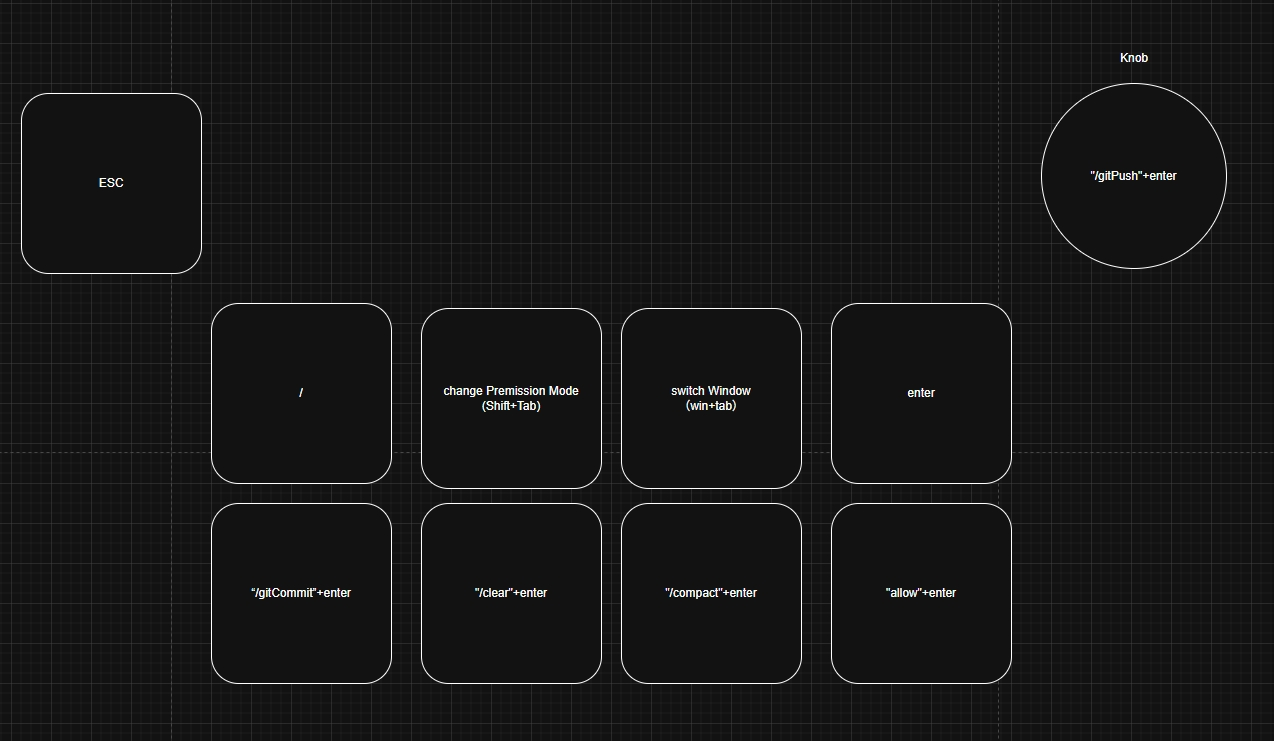
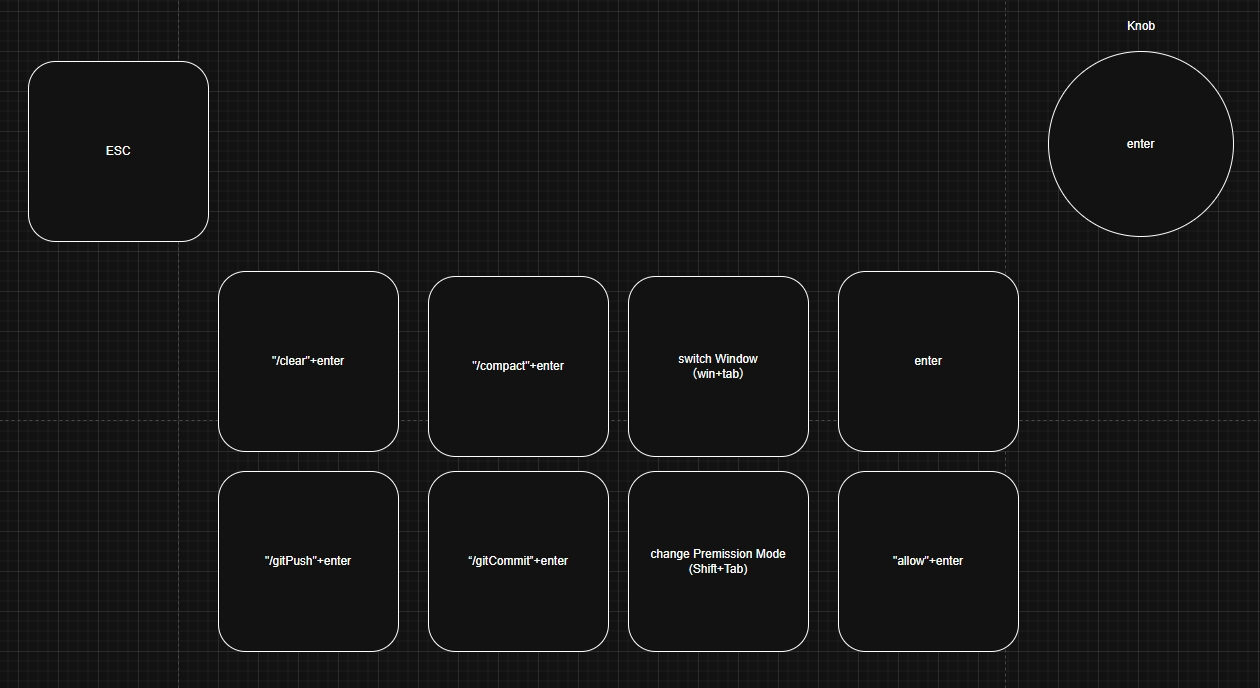
feat: update keymap layout — swap gitPush/gitCommit, remap knob to Enter

diff --git a/firmware/claude_macropad/keymap.h b/firmware/claude_macropad/keymap.h
@@ -78,27 +78,27 @@
 //     中文輸入法使用者建議用 "\n\n"，因為輸入法會吃掉一個 \n
 
 const char* BTN_MACROS[10] = {
-  "",               // [0] ↓ 使用 BTN_KEYS
-  "",               // [1] ↓ 使用 BTN_KEYS
+  "/clear\n\n",     // [0] /clear（清除對話）
+  "/compact\n\n",   // [1] /compact（整理對話）
   "",               // [2] ↓ 使用 BTN_KEYS
   "",               // [3] ↓ 使用 BTN_KEYS
-  "/gitCommit\n\n", // [4] /gitCommit（提交 Git）
-  "/clear\n\n",     // [5] /clear（清除對話）
-  "/compact\n\n",   // [6] /compact（整理對話）
+  "/gitPush\n\n",   // [4] /gitPush（推送 Git）
+  "/gitCommit\n\n", // [5] /gitCommit（提交 Git）
+  "",               // [6] ↓ 使用 BTN_KEYS
   "allow\n\n",      // [7] allow（允許操作）
   "",               // [8] ↓ 使用 BTN_KEYS
-  "/gitPush\n\n",   // [9] /gitPush（推送 Git）
+  "",               // [9] ↓ 使用 BTN_KEYS
 };
 
 const uint8_t BTN_KEYS[10][3] = {
-  {SLASH, 0,       0},  // [0] /
-  {SHIFT, TAB,     0},  // [1] Shift+Tab
+  {0,     0,       0},  // [0] （巨集優先，此鍵不作用）
+  {0,     0,       0},  // [1] （巨集優先，此鍵不作用）
   {WIN,   TAB,     0},  // [2] WIN+Tab
   {ENTER, 0,       0},  // [3] Enter（送出）
   {0,     0,       0},  // [4] （巨集優先，此鍵不作用）
   {0,     0,       0},  // [5] （巨集優先，此鍵不作用）
-  {0,     0,       0},  // [6] （巨集優先，此鍵不作用）
+  {SHIFT, TAB,     0},  // [6] Shift+Tab（切換權限模式）
   {0,     0,       0},  // [7] （巨集優先，此鍵不作用）
   {ESC,   0,       0},  // [8] ESC
-  {0,     0,       0},  // [9] 旋鈕按下（巨集優先，此鍵不作用）
+  {ENTER, 0,       0},  // [9] 旋鈕按下（Enter）
 };

diff --git a/README.md b/README.md
@@ -37,14 +37,14 @@
 | 索引 | 位置 | 功能 | 輸出 |
 | :--- | :--- | :--- | :--- |
 | **[8]** | 左上角獨立鍵 | ESC | ESC |
-| **[9]** | 右上角旋鈕按下 | Git Push | `/gitPush` + Enter |
-| **[0]** | 矩陣上排 1 | Slash Command | `/` |
-| **[1]** | 矩陣上排 2 | Change Permission Mode | Shift+Tab |
+| **[9]** | 右上角旋鈕按下 | Enter | Enter |
+| **[0]** | 矩陣上排 1 | Clear 對話 | `/clear` + Enter |
+| **[1]** | 矩陣上排 2 | Compact 對話 | `/compact` + Enter |
 | **[2]** | 矩陣上排 3 | Switch Window | Win+Tab |
 | **[3]** | 矩陣上排 4 | Enter | Enter |
-| **[4]** | 矩陣下排 1 | Git Commit | `/gitCommit` + Enter |
-| **[5]** | 矩陣下排 2 | Clear 對話 | `/clear` + Enter |
-| **[6]** | 矩陣下排 3 | Compact 對話 | `/compact` + Enter |
+| **[4]** | 矩陣下排 1 | Git Push | `/gitPush` + Enter |
+| **[5]** | 矩陣下排 2 | Git Commit | `/gitCommit` + Enter |
+| **[6]** | 矩陣下排 3 | Change Permission Mode | Shift+Tab |
 | **[7]** | 矩陣下排 4 | Allow | `allow` + Enter |
 | — | 旋鈕旋轉 | 捲動 | ↑ / ↓ |
 
@@ -228,11 +228,13 @@ const uint8_t BTN_KEYS[10][3] = {
 
 ```c
 const char* BTN_MACROS[10] = {
-  "",               // [0] 空字串 → 使用 BTN_KEYS
-  "",               // [1] 空字串 → 使用 BTN_KEYS
-  "/gitCommit\n\n", // [4] 輸出 /gitCommit 後按兩次 Enter
-  "/clear\n\n",     // [5] 輸出 /clear 後按兩次 Enter
-  "/gitPush\n\n",   // [9] 輸出 /gitPush 後按兩次 Enter（旋鈕）
+  "/clear\n\n",     // [0] 輸出 /clear 後按兩次 Enter
+  "/compact\n\n",   // [1] 輸出 /compact 後按兩次 Enter
+  "",               // [2] 空字串 → 使用 BTN_KEYS
+  "",               // [3] 空字串 → 使用 BTN_KEYS
+  "/gitPush\n\n",   // [4] 輸出 /gitPush 後按兩次 Enter
+  "/gitCommit\n\n", // [5] 輸出 /gitCommit 後按兩次 Enter
+  "",               // [9] 空字串 → 使用 BTN_KEYS（旋鈕按下 = Enter）
   ...
 };
 ```
@@ -301,7 +303,7 @@ claude_microPad/
 
 ## 🤖 九、 自訂 Slash Command — `/gitCommit`
 
-本專案內建自訂 Claude Code 指令 `/gitCommit`，對應鍵盤上的 **[4]** 號按鍵。
+本專案內建自訂 Claude Code 指令 `/gitCommit`，對應鍵盤上的 **[5]** 號按鍵。
 
 ### 功能說明
 

diff --git a/CLAUDE.md b/CLAUDE.md
@@ -19,10 +19,10 @@ This is a **hardware design project** for the "Claude Ghost Macro Pad" (V2.0 Rel
 
 **Key Layout (all 1U keycaps):**
 - Top-left standalone: `ESC` (ESC)
-- Top-right standalone: `Knob / gitPush` (rotary encoder — scroll or press to run /gitPush)
+- Top-right standalone: `Knob / Enter` (rotary encoder — scroll or press to send Enter)
 - Central 2×4 matrix:
-  - Upper row: `/` (Slash Command) | `Change Permission Mode` (Shift+Tab) | `Switch Window` (Win+Tab) | `Enter`
-  - Lower row: `Git Commit` (/gitCommit + Enter) | `Clear` (/clear + Enter) | `Compact` (/compact + Enter) | `Allow` (allow + Enter)
+  - Upper row: `Clear` (/clear + Enter) | `Compact` (/compact + Enter) | `Switch Window` (Win+Tab) | `Enter`
+  - Lower row: `Git Push` (/gitPush + Enter) | `Git Commit` (/gitCommit + Enter) | `Change Permission Mode` (Shift+Tab) | `Allow` (allow + Enter)
 
 **LED (RGB, common-anode):** Longest pin → 3.3V; R/G/B pins each through 220Ω resistor to GPIO. Logic: `False` (LOW) = on, `True` (HIGH) = off.
 
